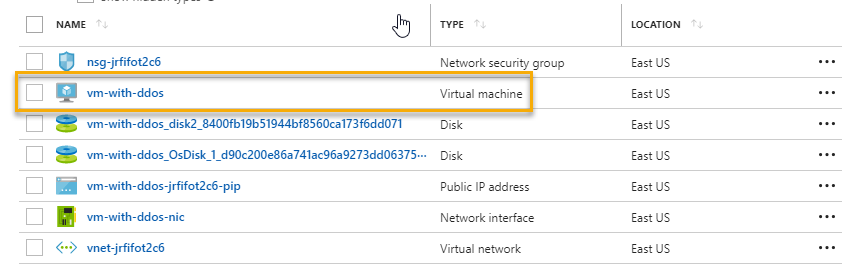
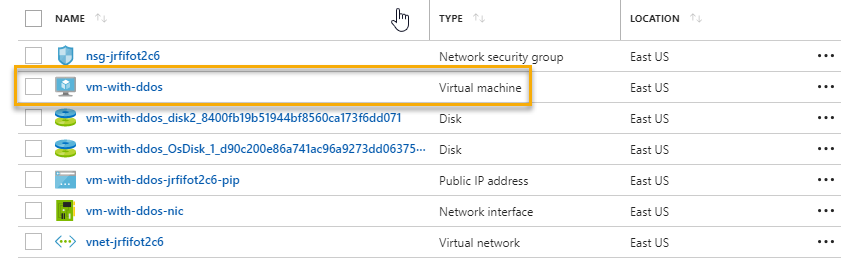
Added Images for ddos wiki

diff --git a/scenarios/ddos-attack-on-vm/documentation/DDos attack on Virtual Machine.md b/scenarios/ddos-attack-on-vm/documentation/DDos attack on Virtual Machine.md
@@ -44,13 +44,20 @@ Azure DDoS Protection Standard is currently in preview. Protection is provided f
 8. To manually configure IIS server on VM follow below steps
     a. Go to Azure Portal --> Select Resource Groups services --> Select Resource Group - "0004-ddos-attack-on-vm"
     b. Select VM with name 'vm-with-ddos'
+
         ![](images/select-rg-and-vm.png)
-    c. On Properties Page --> Click Connect to Download RDP file --> Save and Open RDP file. 
+
+    c. On Properties Page --> Click Connect to Download RDP file --> Save and Open RDP file.
+
         ![](images/click-on-connect.png)
-    d. Enter loginid=vmadmin and pwd=GY45s@67hx!K
+
+    d. Enter login username=vmadmin and password=GY45s@67hx!K
+    
     e. Open Server Manager and install Web Server (IIS).
-    ![](images/select-add-roles-and-feature.png)
-    ![](images/install-iis-web-Server-on-vm.png)
+
+        ![](images/select-add-roles-and-feature.png)
+    
+        ![](images/install-iis-web-Server-on-vm.png)
     
     
 8. To configure Azure Security Center, pass `<ConfigureASC>`  switch and  email address `<email id>` for notification
@@ -63,20 +70,46 @@ Azure DDoS Protection Standard is currently in preview. Protection is provided f
     Azure Portal  - Security Center - Security policy - Select Subscription - Security policy - Data Collection
 
     
-    ![](images/sql-inj-asc-oms.png)
+    ![](images/ddos-asc-oms.png)
     
 
 # Use case - 1 : Attack on VM without DDoS protection
-Microsoft Support team executed TCP SYN flood and DNS flood attack on the VM w/o DDoS protection. In this case DDoS attack can not be detected, Azure Portal-->Resource Group --> VM --> Metrics.
-  ![](images/sql-inj-asc-oms.png)
+Microsoft Support team executed TCP SYN flood and DNS flood attack on the VM without DDoS protection. In this case DDoS attack can not be detected as shown in below images.
+To monitor from matrics to find public IP is under DDoS attack (Does not detect DDoS attack)
+    Azure Portal-->Resource Group --> VM --> Metrics --> Select below options
+    - Select specific Public IP in resource option 
+    - Under DDoS attack or not in metrics filter
+
+    ![](images/without-ddos-protection-under-attack.png)
+
+To monitor from matrics to find public IP inbound packets status (Does not detect DDoS attack)
+    Azure Portal-->Resource Group --> VM --> Metrics --> Select below options from metrics filter
+    - inbound packets DDoS
+    - inbound packets dropped DDoS
+    - inbound packets forwarded DDoS
+
+    ![](images/without-ddos-protection-inbound.png)
 
 # Use case - 2 : Attack on VM with DDoS protection 
-Microsoft Support team executed TCP SYN flood and DNS flood attack on the VM with DDoS protection. In this case DDoS attack can  be detected, Azure Portal-->Resource Group --> VM --> Metrics.
-  ![](images/sql-inj-asc-oms.png)
+Microsoft Support team executed TCP SYN flood and DNS flood attack on the VM without DDoS protection. In this case DDoS attack is detected as shown in below images.
+To monitor from matrics to find public IP is under DDoS attack (Detect DDoS attack)
+    Azure Portal-->Resource Group --> VM --> Metrics --> Select below options
+    - Select specific Public IP in resource option 
+    - Under DDoS attack or not in metrics filter
+    
+    ![](images/monitoring-public-IP-under-DDoS-attack.png)
 
-  This attack can also be detected using email configuration at metrics level. PFB screen shot for alert email generated 
-  ![](images/sql-inj-asc-oms.png)
+To monitor from matrics to find public IP inbound packets status (Detect DDoS attack)
+    Azure Portal-->Resource Group --> VM --> Metrics --> Select below options from metrics filter
+    - inbound packets DDoS
+    - inbound packets dropped DDoS
+    - inbound packets forwarded DDoS
 
+  
+    ![](images/monitoring-inbound-packets-DDoS.png)
+
+  This attack can also be detected using email configuration at metrics level. Please follow below steps to configure email alret
+  
   This attack can also be detected using OMS. 
 
 
